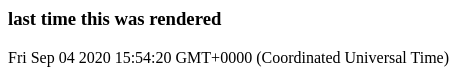
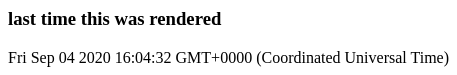
Updated markdown files

Changed region(s): [[0.2451, 0.6933, 0.3982, 0.8533]]

diff --git a/examples/javascript.md b/examples/javascript.md
@@ -18,14 +18,14 @@ console.table(table);
 ``` markdown-code-runner
 the javascript code is run in node
 it can do maths
-3582.663425344074
+9686.185518457714
 and can render a table
 ┌─────────┬──────────┬───────┐
 │ (index) │   name   │ yummy │
 ├─────────┼──────────┼───────┤
-│    0    │ 'chips'  │   2   │
-│    1    │ 'pizza'  │   7   │
-│    2    │ 'burger' │   2   │
+│    0    │ 'chips'  │   6   │
+│    1    │ 'pizza'  │   5   │
+│    2    │ 'burger' │   3   │
 └─────────┴──────────┴───────┘
 
 ```
@@ -53,6 +53,6 @@ fetch('https://api.kanye.rest/')
 
 ``` markdown-code-runner
 Kanye West quote:
-Everything you do in life stems from either fear or love
+I feel like I'm too busy writing history to read it.
 
 ```

diff --git a/examples/bash.md b/examples/bash.md
@@ -10,9 +10,9 @@ echo date: $(date)
 
 
 ``` markdown-code-runner
-hostname: fv-az54
+hostname: fv-az120
 shell: /bin/bash
-ls: LICENSE README.4.png README.md action.yml dist examples jest.config.js node_modules package.json setup-and-run.js src tsconfig.json yarn.lock
-date: Fri Sep 4 15:52:59 UTC 2020
+ls: LICENSE README.2.png README.md action.yml dist examples jest.config.js node_modules package.json setup-and-run.js src tsconfig.json yarn.lock
+date: Fri Sep 4 16:03:21 UTC 2020
 
 ```

diff --git a/README.md b/README.md
@@ -36,7 +36,7 @@ export default App
 
 <!-- markdown-code-runner image-start -->
 
-![rendered jsx](./README.2.png)
+![rendered jsx](./README.4.png)
 
 <!-- markdown-code-runner image-end -->
 

diff --git a/examples/python.md b/examples/python.md
@@ -17,6 +17,6 @@ else:
 
 ``` markdown-code-runner
 running python code is easy
-all bets on red
+all bets on black
 
 ```
